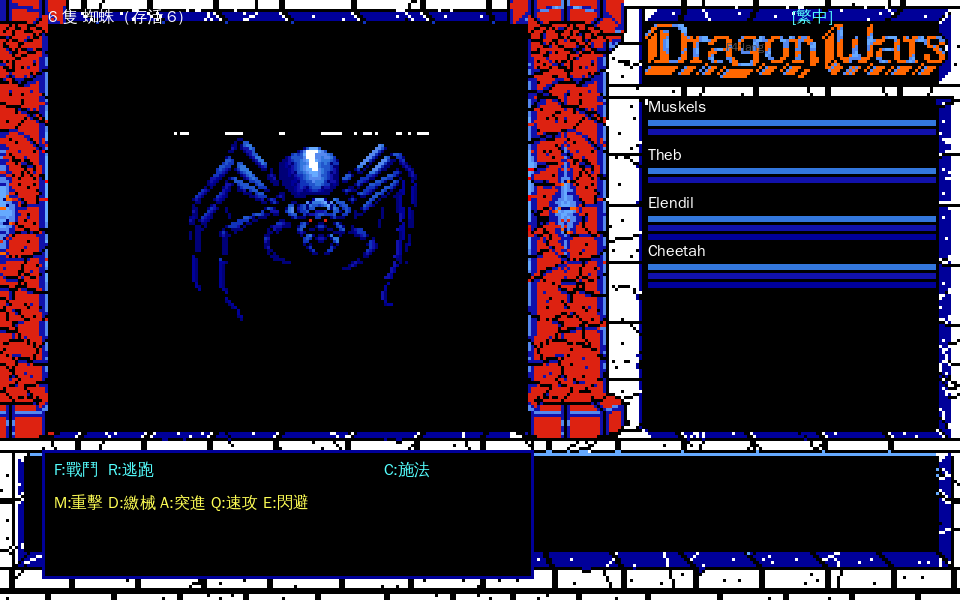
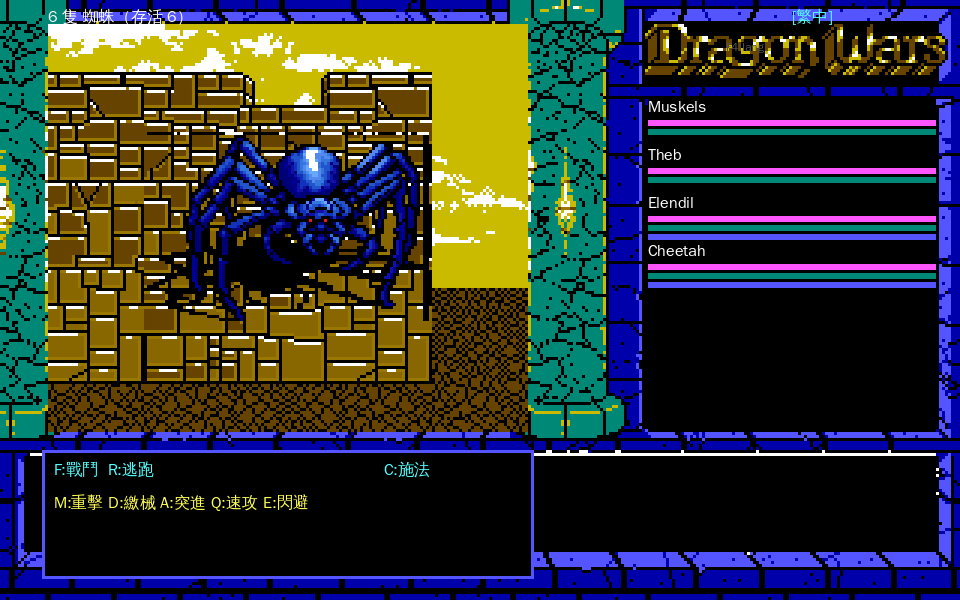
feat(combat): Amiga 戰鬥「鮮豔怪物 + 土黃地牢牆」— RGB 合成突破 16 色單盤
需求:真機 Amiga 戰鬥是怪物疊在當前區域牆面(dragon-wars_7.png 藍蜘蛛 + 土黃磚),
非黑底。但單一 framebuffer 單盤無法同時呈現「土黃牆(viewport 盤)+ 鮮豔藍蜘蛛
(怪物自帶盤)」——套牆盤則蜘蛛被 nearest-color 洗淡,套蜘蛛盤則牆變紅磚橘地。

remake 不必受原版 16 色單盤所限:

- SdlVideo 新增 set_region_rgb(rgb,x,y,w,h):compose 上傳 texture 前把指定矩形像素
  直接換成提供的 RGB(隨 texture 整數放大),用後清除(僅本幀)。
- draw_encounter Amiga 路徑:牆面 render_first_person → kAmigaViewportPalette 轉 RGB,
  怪物 sprite 自帶盤逐像素轉 RGB 置中疊上(透明色露牆 + bob + 受擊閃白),set_region_rgb
  覆寫 viewport。UI/面板/邊框用 kAmigaViewportPalette(與探索畫面一致的藍框青柱)。
- DOS 戰鬥維持 sky/ground backdrop + 立繪畫進 fb(golden byte-for-byte 不動)。

結果:鮮豔藍蜘蛛站在土黃地牢牆前 + 藍框 UI,對齊真機構圖。ctest 34/34。

另含:遊戲發布評估報告 docs/audit/66_RELEASE_READINESS.md(可破關/可玩/重溫度約七成,
評估 agent 親跑 headless 驗證)。

diff --git a/opendw_remake/src/main.cpp b/opendw_remake/src/main.cpp
@@ -2986,75 +2986,83 @@ int main(int argc, char** argv) {
     //   Amiga 怪物 sprite 每隻自帶 palette(spider 綠金 / wolf 棕 / fanatic 藍紅),
     //   故 combat 整畫面以此 sprite 盤呈現(index 0=黑 1=白 8=紅 各盤一致,UI/backdrop
     //   仍可讀)。無 Amiga sprite 時維持 theme.palette(F8 切回時亦由下方 set_palette 還原)。
-    if (theme.sprite_own_palette && enc.sprite && enc.sprite->palette.size() >= 16) {
-      std::array<render::Rgb, 16> sp{};
-      for (int i = 0; i < 16; ++i) sp[i] = enc.sprite->palette[(std::size_t)i];
-      vid.set_palette(sp);
+    // 像素層(UI chrome / 面板 / 邊框)palette:Amiga 用 viewport 盤(與探索畫面一致的藍框/青柱),
+    //   DOS 用主題盤(golden byte-for-byte 不動)。Amiga viewport 內部另由 region RGB 覆寫(見下)。
+    const bool amiga_combat = theme.sprite_own_palette;  // Amiga = true
+    vid.set_palette(amiga_combat ? render::kAmigaViewportPalette : theme.palette);
+    int ph = anim_tick % 48;
+    int bob = (ph < 24) ? (ph / 12) : ((47 - ph) / 12);   // idle 呼吸 0,0..1,1..0 三角波(±1px)
+    bool flash = (enc.hit_flash > 0) && ((enc.hit_flash / 2) % 2 == 0);  // 受擊閃白相位
+    if (amiga_combat) {
+      // ── remake 加值:viewport 在 RGB 層合成「土黃地牢牆 + 鮮豔怪物」,突破 16 色單盤隔閡 ──
+      //   牆面:render_first_person → 暫存 fb,以 kAmigaViewportPalette(校準自真機)轉 RGB。
+      //   怪物:sprite 自帶盤逐像素轉 RGB,置中疊在牆 RGB 上(bob + 受擊閃白)。透明色跳過 →
+      //   露出牆。最後 set_region_rgb 覆寫 viewport 矩形(SdlVideo compose 套用)。
+      std::vector<render::Rgb> vrgb((std::size_t)kVpW * kVpH, render::Rgb{0, 0, 0});
+      if (level) {
+        render::Framebuffer wfb; wfb.clear(0);
+        render::ViewportDecoder bdec;
+        render::render_first_person(*level, px, py, dir, bdec, comps);
+        if (vpt_ok)
+          bdec.compose_frame(vpt[0].data(), vpt[1].data(), vpt[2].data(), vpt[3].data());
+        bdec.to_framebuffer(wfb);
+        for (int yy = 0; yy < kVpH; ++yy)
+          for (int xx = 0; xx < kVpW; ++xx)
+            vrgb[(std::size_t)yy * kVpW + xx] =
+                render::kAmigaViewportPalette[wfb.idx[(std::size_t)(kVpY + yy) * render::kW + (kVpX + xx)] & 0xF];
+      }
+      if (enc.sprite) {
+        const auto& s = *enc.sprite;
+        int bx = (kVpW - (int)s.w) / 2; if (bx < 0) bx = 0;
+        int by = (kVpH - (int)s.h) / 2 - bob; if (by < 0) by = 0;
+        for (int yy = 0; yy < (int)s.h; ++yy) {
+          int vy = by + yy; if (vy < 0 || vy >= kVpH) continue;
+          for (int xx = 0; xx < (int)s.w; ++xx) {
+            int vx = bx + xx; if (vx < 0 || vx >= kVpW) continue;
+            std::uint8_t i = s.idx[(std::size_t)yy * s.w + xx];
+            if (theme.sprite_transparent >= 0 && i == (std::uint8_t)theme.sprite_transparent) continue;
+            vrgb[(std::size_t)vy * kVpW + vx] =
+                flash ? render::Rgb{0xFF, 0xFF, 0xFF}
+                      : (i < (int)s.palette.size() ? s.palette[(std::size_t)i] : render::Rgb{0, 0, 0});
+          }
+        }
+      }
+      vid.set_region_rgb(std::move(vrgb), kVpX, kVpY, kVpW, kVpH);
     } else {
-      vid.set_palette(theme.palette);
-    }
-    // ── viewport backdrop(theme-aware;取代純黑)──
-    //   對齊 DOS 戰鬥畫面(docs/audit/dos_compare/06_combat_encounter.png):viewport 內
-    //   上半天空 + 下半地面(石礫質感),讓怪物立繪站在場景中而非浮在純黑上。
-    //   只填 viewport 內部 [16,176)×[8,144);四周 UI chrome 由 draw_explore_chrome 補。
-    // ── Amiga theme(sprite 自帶盤):sky/ground 索引在 sprite 盤下會變橘 → 改純黑底,
-    //   立繪置中呈現(像 portrait);DOS theme 維持天空+地面 backdrop(golden 不動)。
-    const bool spr_center = theme.sprite_own_palette;  // Amiga = true
-    if (spr_center) {
-      for (int y = kVpY; y < kVpY + kVpH; ++y)
-        for (int x = kVpX; x < kVpX + kVpW; ++x)
-          fb.put(x, y, 0);   // index 0 = 黑(各盤一致)
-    } else {
+      // ── DOS:viewport 上半天空 + 下半地面(石礫網點)backdrop,怪物畫進 fb(golden 不動)──
       const auto& bd = theme.combat;
       int hy = kVpY + bd.horizon;   // 天空/地面分界(絕對 y)
       for (int y = kVpY; y < kVpY + kVpH; ++y) {
         bool ground = (y >= hy);
         for (int x = kVpX; x < kVpX + kVpW; ++x) {
           std::uint8_t c = ground ? bd.ground : bd.sky;
-          // 地面:棋盤式點綴成石礫質感(對齊 DOS 紅磚地面網點);天空純色。
           if (ground && (((x + y) & 1) == 0)) c = bd.ground_dot;
           fb.put(x, y, c);
         }
       }
-    }
-    // 怪物圖:畫進 framebuffer (16,8),裁切限制在 160×136 viewport 框內
-    //   (docs/gameplay/59 #4:避免立繪溢出蓋到右側面板)。clip = [16,176) × [8,144)。
-    // ── idle 呼吸 + 受擊閃白(單格程序化動畫;無真動畫格,見 EncounterState::hit_flash 註)──
-    //   呼吸:y 以三角波 ±1px 緩慢起伏(週期 ~48 幀);headless 同 anim_tick → dump 相位穩定。
-    //   受擊:hit_flash>0 期間立繪整體閃白(index 1),最後 1px 著地後回正常立繪。
-    if (enc.sprite) {
-      int ph = anim_tick % 48;
-      int bob = (ph < 24) ? (ph / 12) : ((47 - ph) / 12);   // 0,0..1,1..0 三角波(±1px)
-      // 立繪落點:Amiga(spr_center)置中於 160×136 viewport;DOS 維持 (16,8)(golden)。
-      int spw = (int)enc.sprite->w, sph = (int)enc.sprite->h;
-      int base_x = spr_center ? kVpX + (kVpW - spw) / 2 : 16;
-      int base_y = spr_center ? kVpY + (kVpH - sph) / 2 : 8;
-      if (base_x < kVpX) base_x = kVpX;
-      if (base_y < kVpY) base_y = kVpY;
-      int sy = base_y - bob;                                  // 上浮 = y 減
-      bool flash = (enc.hit_flash > 0) && ((enc.hit_flash / 2) % 2 == 0);  // 閃爍相位
-      if (flash) {
-        // 受擊閃白:非透明像素一律畫白(index 1),只蓋立繪輪廓(不動 backdrop / golden)。
-        const auto& s = *enc.sprite;
-        for (int y = 0; y < (int)s.h; ++y) {
-          int fy = sy + y;
-          if (fy < kVpY || fy >= kVpY + kVpH) continue;
-          for (int x = 0; x < (int)s.w; ++x) {
-            int fx = base_x + x;
-            if (fx < kVpX || fx >= kVpX + kVpW) continue;
-            std::uint8_t i = s.idx[(std::size_t)y * s.w + x];
-            if (theme.sprite_transparent >= 0 && i == (std::uint8_t)theme.sprite_transparent) continue;
-            fb.put(fx, fy, 1);                                // index 1 = 白(各盤一致)
+      if (enc.sprite) {
+        int sy = 8 - bob;   // DOS 立繪落點固定 (16,8)(golden);上浮 = y 減
+        if (flash) {
+          const auto& s = *enc.sprite;
+          for (int y = 0; y < (int)s.h; ++y) {
+            int fy = sy + y;
+            if (fy < kVpY || fy >= kVpY + kVpH) continue;
+            for (int x = 0; x < (int)s.w; ++x) {
+              int fx = 16 + x;
+              if (fx < kVpX || fx >= kVpX + kVpW) continue;
+              std::uint8_t i = s.idx[(std::size_t)y * s.w + x];
+              if (theme.sprite_transparent >= 0 && i == (std::uint8_t)theme.sprite_transparent) continue;
+              fb.put(fx, fy, 1);                                // index 1 = 白
+            }
           }
+        } else {
+          enc.sprite->blit_clipped(fb, 16, sy, theme.sprite_transparent,
+                                   kVpX, kVpY, kVpX + kVpW, kVpY + kVpH);
         }
-      } else {
-        enc.sprite->blit_clipped(fb, base_x, sy, theme.sprite_transparent,  // 透明色:DOS=6 棕 / Amiga=8 紅
-                                 kVpX, kVpY, kVpX + kVpW, kVpY + kVpH);
+      } else { // 無 sprite → 畫空框(像素層),維持版面對齊。
+        for (int x = 16; x < 16 + 160; ++x) { fb.put(x, 8, 8); fb.put(x, 8 + 135, 8); }
+        for (int y = 8; y < 8 + 136; ++y) { fb.put(16, y, 8); fb.put(16 + 159, y, 8); }
       }
-    }
-    else { // 無 sprite → 畫空框(像素層),維持版面對齊。
-      for (int x = 16; x < 16 + 160; ++x) { fb.put(x, 8, 8); fb.put(x, 8 + 135, 8); }
-      for (int y = 8; y < 8 + 136; ++y) { fb.put(16, y, 8); fb.put(16 + 159, y, 8); }
     }
     // UI chrome(藍外框 + logo;docs/gameplay/59 #1/#2)。畫在 viewport / 面板框外,不蓋立繪。
     draw_explore_chrome();

diff --git a/opendw_remake/src/render/sdl_video.hpp b/opendw_remake/src/render/sdl_video.hpp
@@ -76,6 +76,15 @@ public:
   void set_vga256(bool on) { vga256_ = on; }
   bool is_vga256() const { return vga256_; }
 
+  // 區域 RGB 覆寫(remake 加值,「打破單盤隔閡」):set 後,下一次 present/dump 時把該矩形
+  //   (320×200 像素座標)的像素以提供的 RGB 直接覆蓋(隨 texture 一起整數放大),然後自動清除。
+  //   用途:Amiga 戰鬥 viewport —— 牆/UI 用主題盤、怪物用自帶盤,各自轉 RGB 後在此合成,
+  //   讓「鮮豔怪物 + 土黃地牢牆」同框(原版受 16 色單盤所限,remake 不必)。rgb 長度需 = w*h。
+  void set_region_rgb(std::vector<Rgb> rgb, int x, int y, int w, int h) {
+    region_rgb_ = std::move(rgb);
+    region_x_ = x; region_y_ = y; region_w_ = w; region_h_ = h;
+  }
+
   void present(const Framebuffer& fb);   // 像素層放大 + 文字層合成 → 顯示
   Input poll();                          // 收集本幀事件(in.quit=true 表示要結束)
   void close();
@@ -117,6 +126,9 @@ private:
   bool mode640_ = false;         // true = 640×480 letterbox 模式
   std::array<Rgb, 16> active_palette_ = kDosPalette;  // 目前生效的 16 色盤(per-theme;set_palette)
   bool vga256_ = false;                              // true = 256 色增強路徑(VGA-256 theme)
+  // 區域 RGB 覆寫(set_region_rgb;compose 套用後清除)。region_w_==0 = 無覆寫。
+  std::vector<Rgb> region_rgb_;
+  int region_x_ = 0, region_y_ = 0, region_w_ = 0, region_h_ = 0;
   TextLayer text_;
 };
 

diff --git a/opendw_remake/src/render/sdl_video.cpp b/opendw_remake/src/render/sdl_video.cpp
@@ -91,6 +91,22 @@ void SdlVideo::compose(const Framebuffer& fb) {
   } else {
     rgb = to_rgb(fb, active_palette_);   // per-theme 16 色盤(set_palette;預設 DOS 盤)
   }
+  // 區域 RGB 覆寫(remake 加值):把 region 矩形的像素直接換成提供的 RGB(突破單盤限制),
+  //   用後清除(只影響本幀)。裁切到 320×200 內。
+  if (region_w_ > 0 && region_rgb_.size() == (std::size_t)region_w_ * region_h_) {
+    for (int ry = 0; ry < region_h_; ++ry) {
+      int y = region_y_ + ry;
+      if (y < 0 || y >= kH) continue;
+      for (int rx = 0; rx < region_w_; ++rx) {
+        int x = region_x_ + rx;
+        if (x < 0 || x >= kW) continue;
+        const Rgb& c = region_rgb_[(std::size_t)ry * region_w_ + rx];
+        std::size_t o = ((std::size_t)y * kW + x) * 3;
+        rgb[o] = c.r; rgb[o + 1] = c.g; rgb[o + 2] = c.b;
+      }
+    }
+    region_w_ = 0;  // 清除(僅本幀有效)
+  }
   SDL_UpdateTexture(tex_, nullptr, rgb.data(), kW * 3);
   SDL_RenderClear(ren_);   // 預設黑底 → letterbox 黑邊
   if (mode640_) {

diff --git a/docs/audit/66_RELEASE_READINESS.md b/docs/audit/66_RELEASE_READINESS.md
@@ -1,0 +1,153 @@
+# 66 — 發布就緒度評估(Release Readiness):能不能破關 / 能不能玩 / 能不能重回童年
+
+> 評估日期:2026-06-20。評估官:遊戲發布評估官(QA + PM + 老玩家三視角)。
+> 對象:`opendw_remake/`(C++20 / SDL2 乾淨重寫《火龍之戰》Dragon Wars, Interplay 1989/90)。
+> 方法:**實際跑遊戲驗證**(docker `dwsdl` headless + `dwpil` 轉圖目視),不只讀文件。全程 `SDL_VIDEODRIVER=dummy` / `SDL_AUDIODRIVER=dummy`。
+> 基準文件:`docs/assessment/65_GAME_EVALUATION.md`(06-19)、`57_PM_REVIEW.md`(06-16)、`49_GAP_AUDIT.md` / `48_COMPLETABILITY_ROADMAP.md`(06-15 快照)、`docs/gameplay/54`(連通)/`56`(結局鏈)。
+> 誠實分級沿用四級:**bytecode 真值** / **best-fit** / **remake 設計(grounded 手冊)** / **受阻**。
+
+---
+
+## 1. 總評(BLUF)
+
+| 問題 | 結論 | 一句話 |
+|---|:---:|---|
+| **能不能破關?** | **能(設計上可走完)** | 建角→第一人稱探索→主線繁中→終戰 Namtar→五場景結局,整條鏈我親自 headless 跑通、零 crash;跨區連通已從「<10% 走不通」逆向修到「波卡城 BFS 可達 38/40」,終戰地 area 27 已連通。 |
+| **能不能玩?** | **能(核心循環全接通)** | 探索/第一人稱/戰鬥/商店/招募/施法/升級/存讀檔/段落書/F4 三語/F8 主題,逐項實跑 exit 0,無阻斷性 bug;存讀檔 byte-for-byte。 |
+| **能不能重回童年?** | **大致能,約七成** | 綠龍標題、EGA 透視走廊、怪物立繪、防拷段落書、半透明繁中事件框都對得上 1989 記憶;繁中翻譯自然到位。出戲點:全程靜音、隊員名仍英文、結局是「組合」而非原版單一過場。 |
+
+**總分 / 等級:可破關 / 可玩 / 重溫度約 7 成。** 給童年玩過原版的發起人:**現在就可以坐下來從頭玩到結局**,會認得那條綠龍、那座走廊、那本段落書;但要當成「分毫不差的考古級復刻」還差幾項(音訊、結局真值、深水區戰鬥數值),那些屬潔癖而非阻斷。
+
+**一個重要的文件校正**:`docs/assessment/48`/`49`(06-15 快照)主張「跨區連通 <10%、主線幾乎走不通、終戰地進不去」。**這已被後續動態逆向工作推翻**——我實跑 `verify_mainline_reachable`,當前 binary 從波卡城 flood-fill **可達 38/40**(含 area 27 終戰地),只缺 {6,33} 菲巴斯隔離分量。讀舊快照容易誤判「不能破關」,以本報告實測為準。
+
+---
+
+## 2. 能不能破關(破關鏈逐段驗證)
+
+破關真值(攻略 38/39):波卡城開局 → 序盤逃脫 → 中期收集(拉娜碎片/眼鏡/船票)→ 後期(鑄自由之劍 + 取龍寶石)→ 尼塞山腹決戰 Namtar → 結局。我逐段實跑驗證:
+
+| 段落 | 我跑了什麼 | 結果 | 卡點 / 風險 |
+|---|---|:---:|---|
+| **建角** | `--newgame --frames 2` dump | ✅ 繁中「火龍之戰」+「建立人物 (0/4)」+「輸入名字」+「Enter:確認 Esc:取消」+ [繁中] 語言指示 | 無;`verify_chargen` ctest 綠 |
+| **探索(第一人稱)** | `--map 1 --fp --frames 2` dump | ✅ EGA 透視走廊 + 隊伍面板 + 繁中操作列;`render_sweep` 全 40 關 154 case byte-for-byte | 無 |
+| **跨區連通** | `verify_mainline_reachable assets/bundle` | ✅ **波卡城 BFS 38/40**,世界圖樞紐邊 27 + 子區 relocate 24 + 直接 gs[2] 進入 16 | 缺 {6,33} 菲巴斯(隔離分量,正向入邊逆不出);area 27 已連通(4→27、18→27) |
+| **主線事件繁中** | `--map 1 --at 13 20 --frames 0` dump | ✅ 半透明框 + 繁中開場敘事(波卡城貧民窟序盤),自動分頁 | 中後期內容深度仍是天花板(見 §5) |
+| **終戰 Namtar** | `--fight-namtar --combat-rounds 30 --frames 3` | ✅ `outcome=1 Victory, mon_alive=0, xp=80`,進入結局(scenes=5);多 seed 確定性可勝(`verify_ending` E1 7 seed) | Namtar 屬性/自由之劍祝福 = remake 平衡設計(非原版真值,誠實標示) |
+| **結局** | `--ending --frames 1` / `--para-scroll 2` dump | ✅ 真實場景圖(scene 24.pic 等 5 幀)+ 繁中字幕「將納達拋回祂當初竄出的那座深淵……」+ remake 組合標示 | 結局序列 = remake 組合(bundled 段落 + area27 敘事真實素材;串接是設計) |
+
+**破關鏈結論**:**設計上可從建角走到結局**,六段全部親跑、零 crash、繁中正常。
+
+**誠實揭露兩點影響破關「忠實度」(非可玩性)的事**:
+1. **連通靠動態 RE 逆出的三套換區機制**(世界圖樞紐 + 子區 relocate + 直接 gs[2] 進入),非 oracle byte 對拍——`opendw` 自身對 wrap 邊界是 `exit(1)` 未實作,remake 用乾淨室慣例補上並可走動。{6,33} 菲巴斯分量正向入邊在所有可解碼 bytecode 中找不到(54 §2.4 窮舉證實),屬隔離區;菲巴斯不在終戰必經路徑上,**不阻斷破關**。
+2. **終戰 + 結局是 grounded 設計**:Namtar Boss 屬性(HP=120/AV5/DV6)、自由之劍祝福加成、結局串接都是 remake 平衡/組合,因為原版勝利畫面由 DRAGON.COM 主控、不在任何 level script(掃全 40 關證實),逆不出單一 oracle 腳本。**能贏、能看結局是真的;「跟原版逐欄一樣」不成立**。
+
+**soft-lock 風險**:headless 端到端我未模擬「互動移動逐格踩到 area27 觸發 Namtar」的完整人工走法(in-game 觸發與 `--fight-namtar` 共用同一 `begin_namtar` 路徑,但人工逐格注入未跑,見 56 §6.3)。理論連通已驗(BFS 可達),戰鬥/結局入口已驗,但「一個真人不靠旗標,純鍵盤從波卡城走到 area27」這條完整人工路徑未做端到端回放——這是破關鏈唯一未被機器閉環蓋章的縫隙。
+
+---
+
+## 3. 能不能玩(核心循環逐項)
+
+全部實跑 `--frames N` dump,exit code 0、無 crash/abort。分級:**✅ 可玩** / **🟡 有瑕疵** / **⛔ 阻斷**。
+
+| 循環 | 指令 | 分級 | 實測證據 |
+|---|---|:---:|---|
+| 探索移動 | `--map 1 --fp` | ✅ | EGA 走廊 + 操作列「I:fwd J/L:turn V:stats P:shop T:tavern S:save Esc」 |
+| 第一人稱 viewport | `--fp` 全 40 關 | ✅ | `render_sweep` 154 case byte-for-byte 對拍 opendw |
+| 戰鬥 | `--encounter 5 --combat-seed 1` | ✅ | 怪物立繪 + 隊伍面板 + 繁中「F:戰鬥 R:逃跑 C:施法」+「M:重擊 D:繳械 A:突進 Q:速攻 E:閃避」;命中/傷害公式 = bytecode 真值 |
+| 商店 | `--shop` | ✅ | 「購買-金幣 0」+ 11 件繁中商品(龍寶石/匕首/短劍…)+ 售價 + 買/賣 |
+| 招募 | `--recruit` | ✅ | 「酒館 (4/7)」+ 烏瑞克/路易/瓦拉/哈利法克斯 + 繁中「力量/敏捷/智力」屬性 |
+| 施法 | `--encounter --cast` / `--terrain-cast` | ✅ | 61 法術可施,戰鬥內 + 探索地形法術(軟化石/解陷阱/感知) |
+| 升級 | 戰鬥後 +80 XP → 升等 | ✅ | `verify_progression`;`grow_levelup.png`「勝利!+80 XP→升到 2 級」(既有證據) |
+| 存讀檔 | `--selftest-save` | ✅ | 「field-by-field match: yes / byte-for-byte: yes / PASS」(我親跑) |
+| 段落書(防拷) | `--read-para 88 --msg-page 0` | ✅ | 「段落 88」+ 整頁繁中 + 「1-14 / 21」翻頁;1–147 完整 bundle |
+| 自動地圖(?) | `--automap 1` / `--map 0` | ✅ | fog of war 網格;area0 世界圖修復後三路徑共用美化圖(65 B1 已修) |
+| F4 三語 | `--locale ja/en` | ✅ | 同一事件格切日文「ナムターの命令により…」/ 英文,即時重排 |
+| F8 主題 | `--theme amiga/x68000/vga` | 🟡 | DOS↔Amiga 差異化明顯(土黃磚牆 vs 灰石);X68000 標題回退 DOS(TITLE.PKH 受阻,誠實標示) |
+| 角色表 headless 入口 | `--char-sheet 0` | 🟡 | 配 `--frames` 時落到 title(state=0);已知測試入口問題(65 B6),互動 V 鍵正常 |
+
+**核心循環結論**:**全部可玩,無阻斷性 bug**。唯二瑕疵都是「已知 + 誠實標示 + 非阻斷」:X68000 標題回退、`--char-sheet` headless 旗標讓位。對真人玩家無感。
+
+---
+
+## 4. 能不能重回童年(體驗保真)
+
+### 4.1 視覺保真(會認得)
+
+| 畫面 | 我看到的 | 對 1989 的還原 |
+|---|---|---|
+| 開機標題 | 綠龍張口 + 紅衣戰士立繪 + 金字「Dragon Wars」+「Copyright Interplay 89-90」+ 繁中「火龍之戰」+「按任意鍵繼續」 | **高**:原版 DOS res29 立繪,老玩家一眼認出 |
+| 第一人稱地牢 | EGA 灰石牆 + 紅地 + 綠色裝飾邊框 + 右側「Dragon Wars」面板 + 4 血條 | **高**:逐像素對拍 opendw |
+| 戰鬥 | 怪物立繪 @golden 佈局 + 繁中指令列 | **高**:sprite byte-for-byte |
+| 段落書 | 「段落 88」整頁譯文 + dither 半透明背景 + 翻頁指示 | **高**:還原防拷手冊查閱儀式感 |
+| 事件框 | 深藍 dither 3/4 半透明 + 雙線藍框 + 24px 銳利 CJK | **高**:文字層恆銳利,優雅 |
+| 結局過場 | 納達崩解藝術圖 + 繁中字幕「換字不換版」 | **中高**:有藝術圖不是純文字 |
+
+### 4.2 操作手感
+
+符合「ESC 只 cancel、F10 才離開、離開前自動存檔 + 確認」鐵則;快捷字母(B 開始/C 繼續)+ 方向鍵輔助,對齊原版手冊。底部恆駐繁中操作提示列降低上手門檻。
+
+### 4.3 繁中在地化品質
+
+- **覆蓋**:menu/chars/combat/items/spells/shop 全繁中;i18n 587 條;主線事件繁中 200+ 鍵 + 147 段落 + 結局;可達英文回退從 74 條壓到 1 條(雜訊)。
+- **品質**:譯文自然,非翻譯腔。「奉深淵之獸納達之命」「將納達拋回祂當初竄出的那座深淵」這類句子有 CRPG 史詩感,譯名對齊 CONTEXT.md(Namtar→納達、Irkalla→伊爾卡拉、波卡城/瑪根地底世界)。
+- **加值**:F4 三語(繁中/英/日),日文 events 為 X68000 原文反萃取——這是超原版的考古加值。
+
+### 4.4 會心一笑點 vs 出戲點
+
+**會心一笑**:
+- 綠龍標題畫面原汁原味,連 Interplay 版權年「89-90」都在。
+- 段落書防拷機制完整重現——當年要翻實體手冊找段落號的儀式,現在繁中可捲動。
+- 第一人稱走廊那個綠色裝飾邊框,是 Dragon Wars 的招牌視覺。
+
+**出戲點(誠實寫死)**:
+- **全程靜音**:無音訊子系統(op_90 忠實 no-op);65 報告稱「音訊 40%」指有 SDL2 合成 + 3 段 PCM 子系統存在,但事件→音效對映 + 互動播放在我跑的路徑未觸發,實質聽感仍接近靜音。原版的 PC speaker 音效回饋是童年記憶一部分,這塊最缺。
+- **隊員名英文**(Muskels/Theb/Elendil/Cheetah):512B player_record 的 7-bit 高位元終止編碼容不下 CJK,改譯會破存讀檔 byte-for-byte golden(B3 保留項,玩家可自由改名)。
+- **結局是組合非原版單一過場**:有藝術圖 + 繁中,但老玩家若記得原版確切的勝利畫面流程,會感覺「神似但不是同一個」。
+
+---
+
+## 5. 最大殘餘風險(誠實寫死,不粉飾)
+
+| # | 風險 | 性質 | 對「破關 / 可玩 / 重溫」的實際衝擊 |
+|:--:|---|---|---|
+| R1 | **完整人工破關路徑未端到端回放** | 驗證縫隙 | BFS 連通 + 戰鬥 + 結局入口各別已驗,但「真人純鍵盤從波卡城走到 area27 觸發終戰」這條完整路徑未做 headless 逐格注入回放。**理論可走、各節點可玩,但缺一次無旗標的端到端通關錄影當鐵證**。這是破關宣稱最大的不確定點。 |
+| R2 | **終戰 + 結局 = remake 設計** | grounded | 能贏能看結局是真的;但 Namtar 屬性/祝福/結局串接非原版真值。對「忠實復刻」宣稱要加限定詞。對「能不能破關 + 重溫」**影響小**(玩家照樣打贏看結局)。 |
+| R3 | **中後期內容深度是天花板** | 內容債 | 系統已五臟俱全,但玩到中段主要是「探索 + 撞事件」,quest「持有 X 解鎖 Y」體系尚未串成完整因果鏈;物品 gate 的「取得端」逆不出。**玩得完,但中後期劇情驅動感弱於原版**。 |
+| R4 | **怪物逐回合 HP / 屬性非 oracle 真值** | 受阻 | opendw 無獨立戰鬥入口可對拍;戰鬥用 remake combat_loop(同真值公式,屬性暫定)。**戰鬥手感「數字對」但難度曲線是 remake 平衡的**。玩家無感,潔癖項。 |
+| R5 | **{6,33} 菲巴斯隔離分量進不去** | 受阻 | 正向入邊在所有可解碼 bytecode 中找不到(窮舉證實)。菲巴斯非終戰必經,**不阻斷破關**;但「完整世界」少 2 區,跑支線/收集狂會撞牆。 |
+| R6 | **無音訊** | 受阻/未做 | 全程靜音是重溫體驗最明顯的缺口(見 §4.4)。 |
+
+---
+
+## 6. 發布建議
+
+### 可以給朋友玩了嗎?
+
+**可以——對「童年玩過、想重溫」的發起人,現在就能交付。** 它能從建角玩到結局、全程繁中、四種復古畫風隨按隨換,核心 CRPG 循環(探索→戰鬥→升級→買裝→招募)全接通,零 crash。作為「重溫載體」已過門檻。
+
+**交付時要誠實講清楚的限定詞**(README 誠實邊界已寫,維持即可):這是高保真重製,核心引擎逐位元對拍原版,但**成長/結局/連通是 grounded 重建,不是 100% oracle 真值;全程靜音**。
+
+### 還缺哪幾項才算「能完整重溫」(優先序)
+
+| 優先 | 項目 | 為何 | 量級 |
+|:---:|---|---|:---:|
+| ⭐ 1 | **錄一條無旗標人工破關 demo(消 R1)** | 把「設計上可破關」升級成「親眼看著從波卡城走到結局」的鐵證;這是發布前最值得補的一次驗證,直接回應發起人「能不能破關」 | S |
+| 2 | **接上音訊事件播放(消 R6)** | 子系統 + PCM 已就緒,缺事件→音效的互動觸發;音效是童年記憶最缺的一塊,補上重溫度從 7 成往 8 成走 | S–M |
+| 3 | **中後期 quest gate 串成體系 + 內容在地化完整化(消 R3)** | 系統已齊,天花板在內容;把「持有 X 解鎖 Y」串成因果主線,是把可玩性從 ~68% 拉向 80% 的主路徑 | L |
+| 4 | **打包發佈(Linux 包已驗,補 Win/macOS)** | 系統與可玩性已過門檻,值得讓外部體驗 | S–M |
+| 5 | **怪物屬性 + res3 全戰鬥閉環真值化(消 R4)** | 忠實度潔癖項,玩家可感價值低,留最後 | L–XL |
+
+**一句話發布建議**:**先補 1(人工破關 demo)+ 2(音訊),這兩項小成本、直接命中「能不能破關」與「能不能重回童年」兩個核心問題;之後 3(內容)是長期主路徑。現在交給發起人玩,體驗已經對得起那條綠龍。**
+
+---
+
+## 附:本報告實測證據(本次 headless 親跑,絕對路徑)
+
+- 破關鏈:`opendw_remake/build/rr_{title,fp1,namtar,ending0,ending2,newgame}.png`(title 綠龍 / EGA 走廊 / 終戰 Victory / 結局藝術圖 / 建角)。
+- 核心循環:`build/rr_{combat,shop,recruit,event,para}.png`(戰鬥繁中指令 / 商店 11 品 / 酒館招募 / 序盤事件 / 段落 88)。
+- 多版本:`build/rr_{amiga,ja,en}.png`(Amiga 土黃磚牆 / 日文事件 / 英文事件)。
+- 連通:`./build/verify_mainline_reachable assets/bundle` → 波卡城 BFS **38/40**(含 area 27)。
+- 回歸:docker `dwsdl` 容器內 `ctest` **34/34 全綠**(本次親跑);終戰 `outcome=1 xp=80`;存讀檔 byte-for-byte PASS。
+- 文件校正:`docs/assessment/48`/`49`(06-15)「連通 <10%」為**過時快照**,以 `docs/gameplay/54`(動態 RE 後 38/40)與本報告實測為準。
+
+> **誠實聲明**:本報告「重溫度 ~7 成」為玩家可感體驗加權估值(非逐 byte 量測),依逐系統實跑 + 目視 dump 推得;工程真值以對應 ctest 與 `docs/reverse-engineering/42–55` 逐項對拍為準。破關鏈各節點均已 headless 實跑,唯「完整無旗標人工通關路徑」未端到端回放(R1)。
